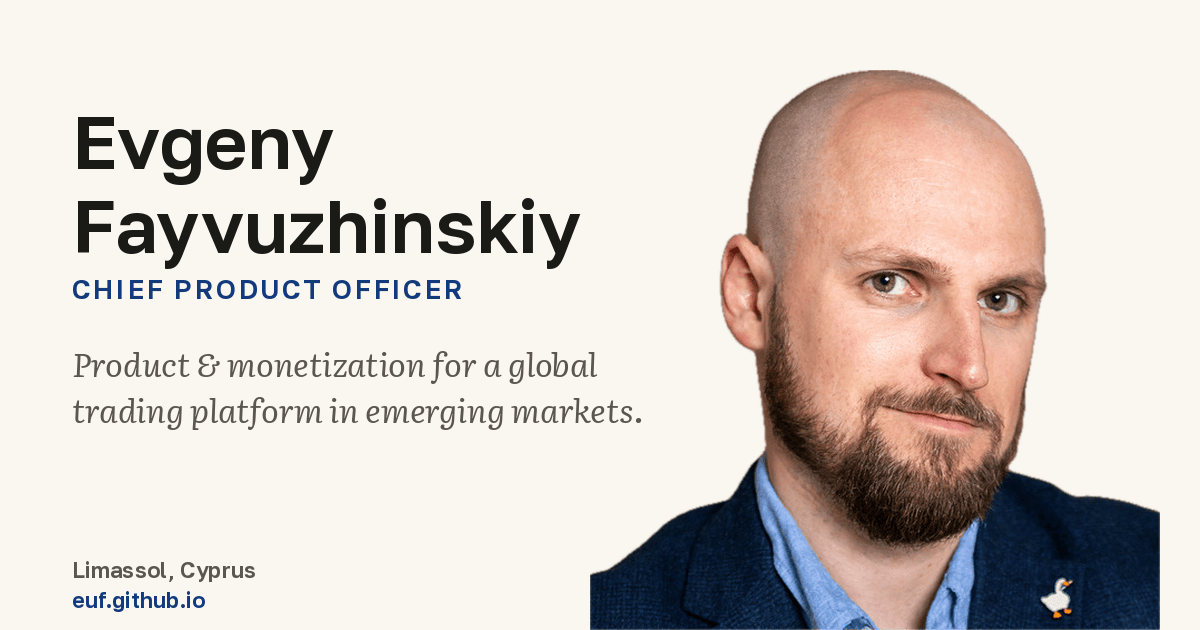
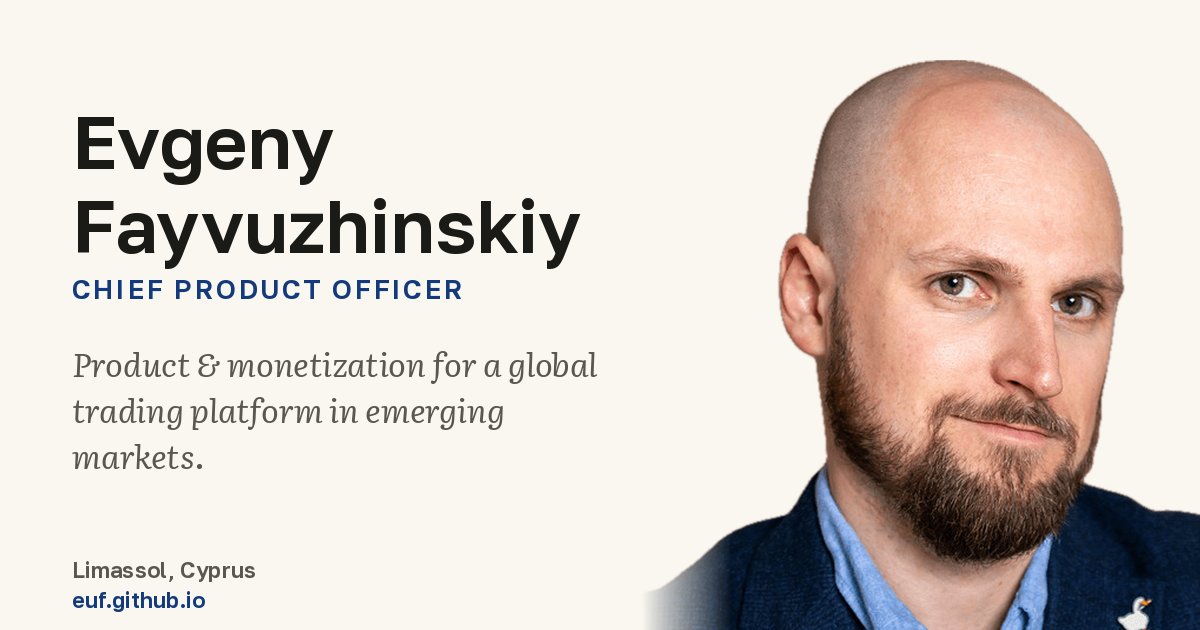
og.png: fix banding + seam
- Regenerate as truecolor RGB (previous pass pngquant-quantized the
  photographic card to 256 colors -> visible skin/gradient banding)
- Bleed figure off right+bottom edges and feather the left edge into
  paper so the source crop no longer shows a hard vertical seam
- Tighten text wrap to clear the portrait

Changed region(s): [[0.4933, 0.0905, 1.0, 1.0], [0.0617, 0.6937, 0.185, 0.754], [0.4317, 0.6333, 0.5242, 0.6937]]

diff --git a/build/make_assets.py b/build/make_assets.py
@@ -165,13 +165,26 @@ def build_og():
     img = Image.new("RGB", (W, H), PAPER)
     d = ImageDraw.Draw(img)
 
-    # cutout on the right, bottom-aligned
+    # cutout on the right; bleed off the right + bottom edges so the source's
+    # hard crop edges fall off-canvas, and feather the one interior (left) edge
+    # into the paper so there is no vertical seam facing the text.
     if os.path.exists(CUTOUT):
         c = Image.open(CUTOUT).convert("RGBA")
-        target_h = 560
+        target_h = 592
         scale = target_h / c.height
-        c = c.resize((int(c.width * scale), target_h), Image.LANCZOS)
-        img.paste(c, (W - c.width - 40, H - c.height), c)
+        c = c.resize((round(c.width * scale), target_h), Image.LANCZOS)
+        px = W - c.width + 44          # bleed ~44px off the right edge
+        py = H - c.height + 22         # bleed ~22px off the bottom edge
+        # feather the left edge: ramp a horizontal alpha gradient into existing alpha
+        aband = c.split()[3]
+        ap = aband.load()
+        feather = 90
+        for x in range(min(feather, c.width)):
+            k = x / feather            # 0 at left edge -> 1 at feather end
+            for y in range(c.height):
+                ap[x, y] = int(ap[x, y] * k)
+        c.putalpha(aband)
+        img.paste(c, (px, py), c)
 
     PADX = 72
     name_f = ImageFont.truetype(GOLOS, 74)
@@ -180,7 +193,7 @@ def build_og():
     meta_f = ImageFont.truetype(GOLOS, 22)
 
     y = 96
-    for line in wrap(d, "Evgeny Fayvuzhinskiy", name_f, 640):
+    for line in wrap(d, "Evgeny Fayvuzhinskiy", name_f, 540):
         d.text((PADX, y), line, font=name_f, fill=INK)
         y += 84
     y += 8
@@ -191,7 +204,7 @@ def build_og():
         d.text((x, y), ch, font=role_f, fill=ACCENT)
         x += d.textlength(ch, font=role_f) + 2.4
     y += 66
-    for line in wrap(d, "Product & monetization for a global trading platform in emerging markets.", tag_f, 600):
+    for line in wrap(d, "Product & monetization for a global trading platform in emerging markets.", tag_f, 540):
         d.text((PADX, y), line, font=tag_f, fill=MUTED)
         y += 46
 
